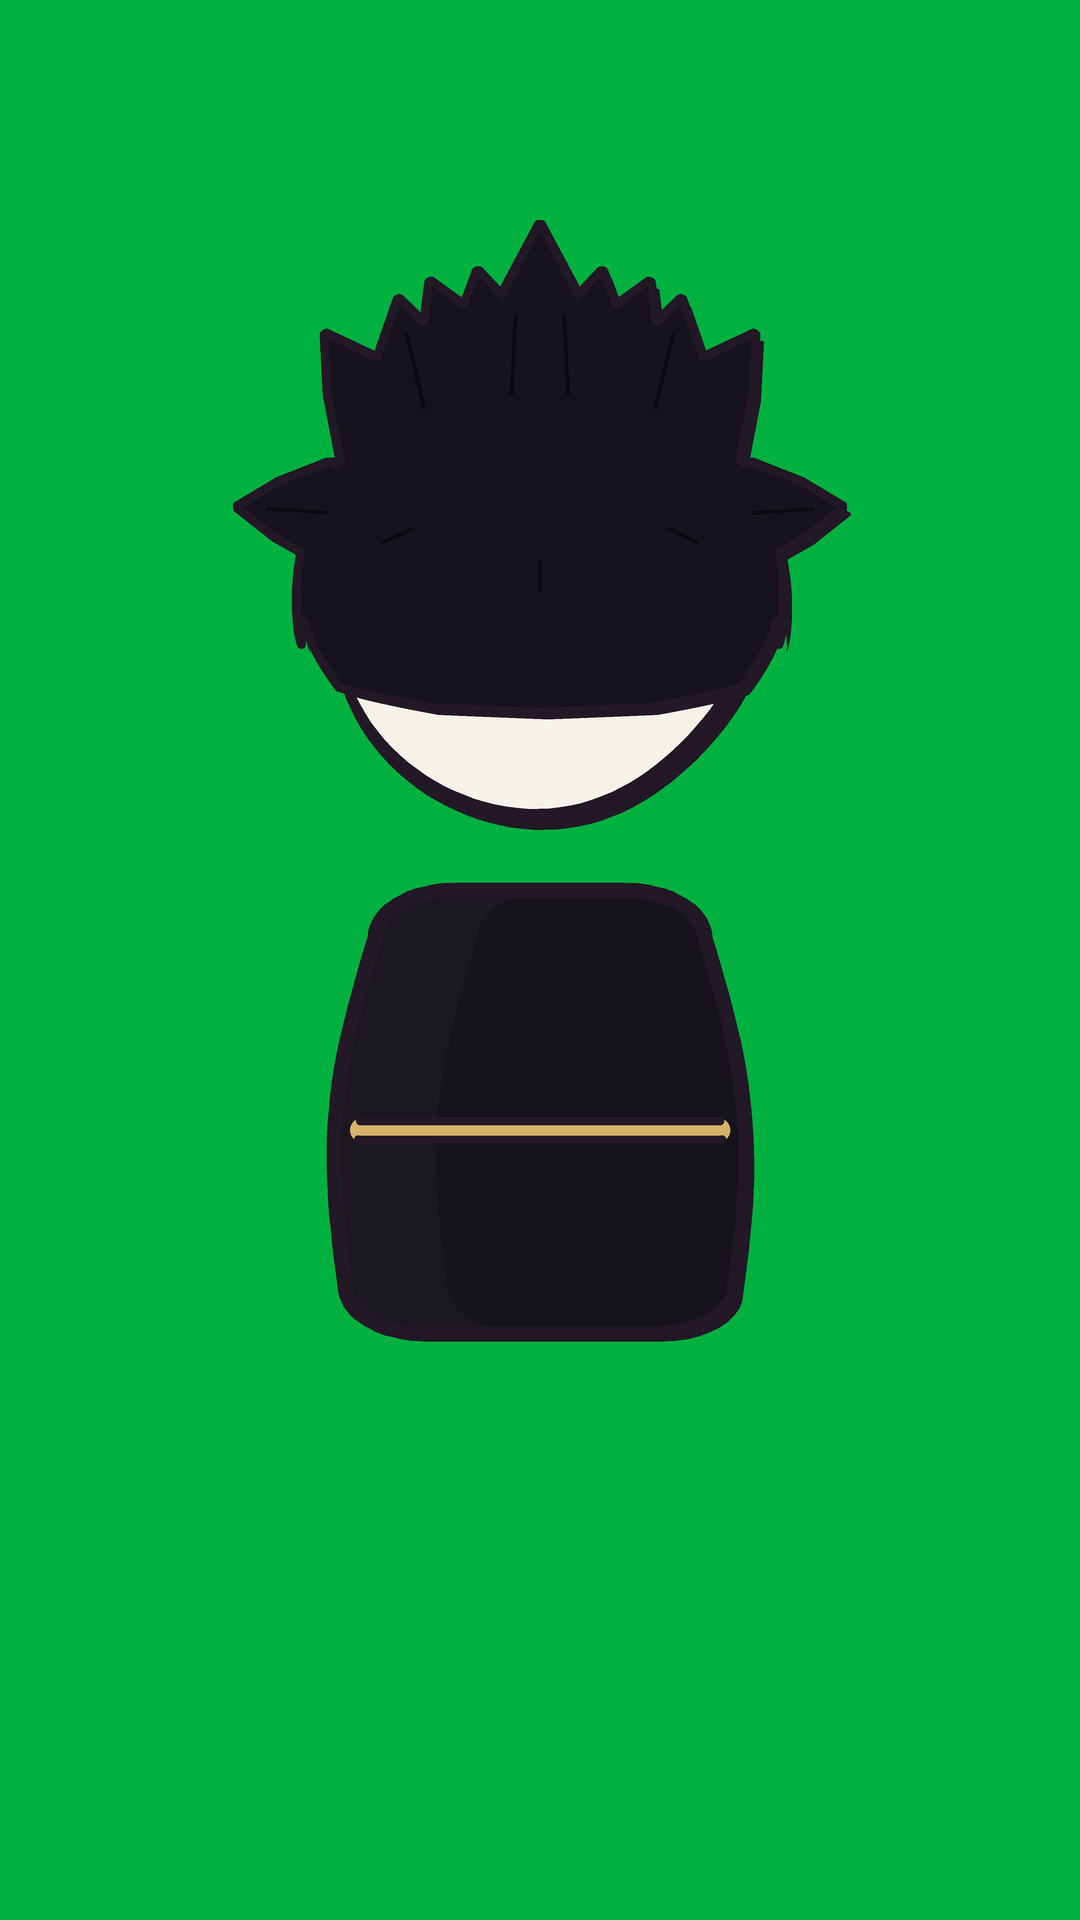
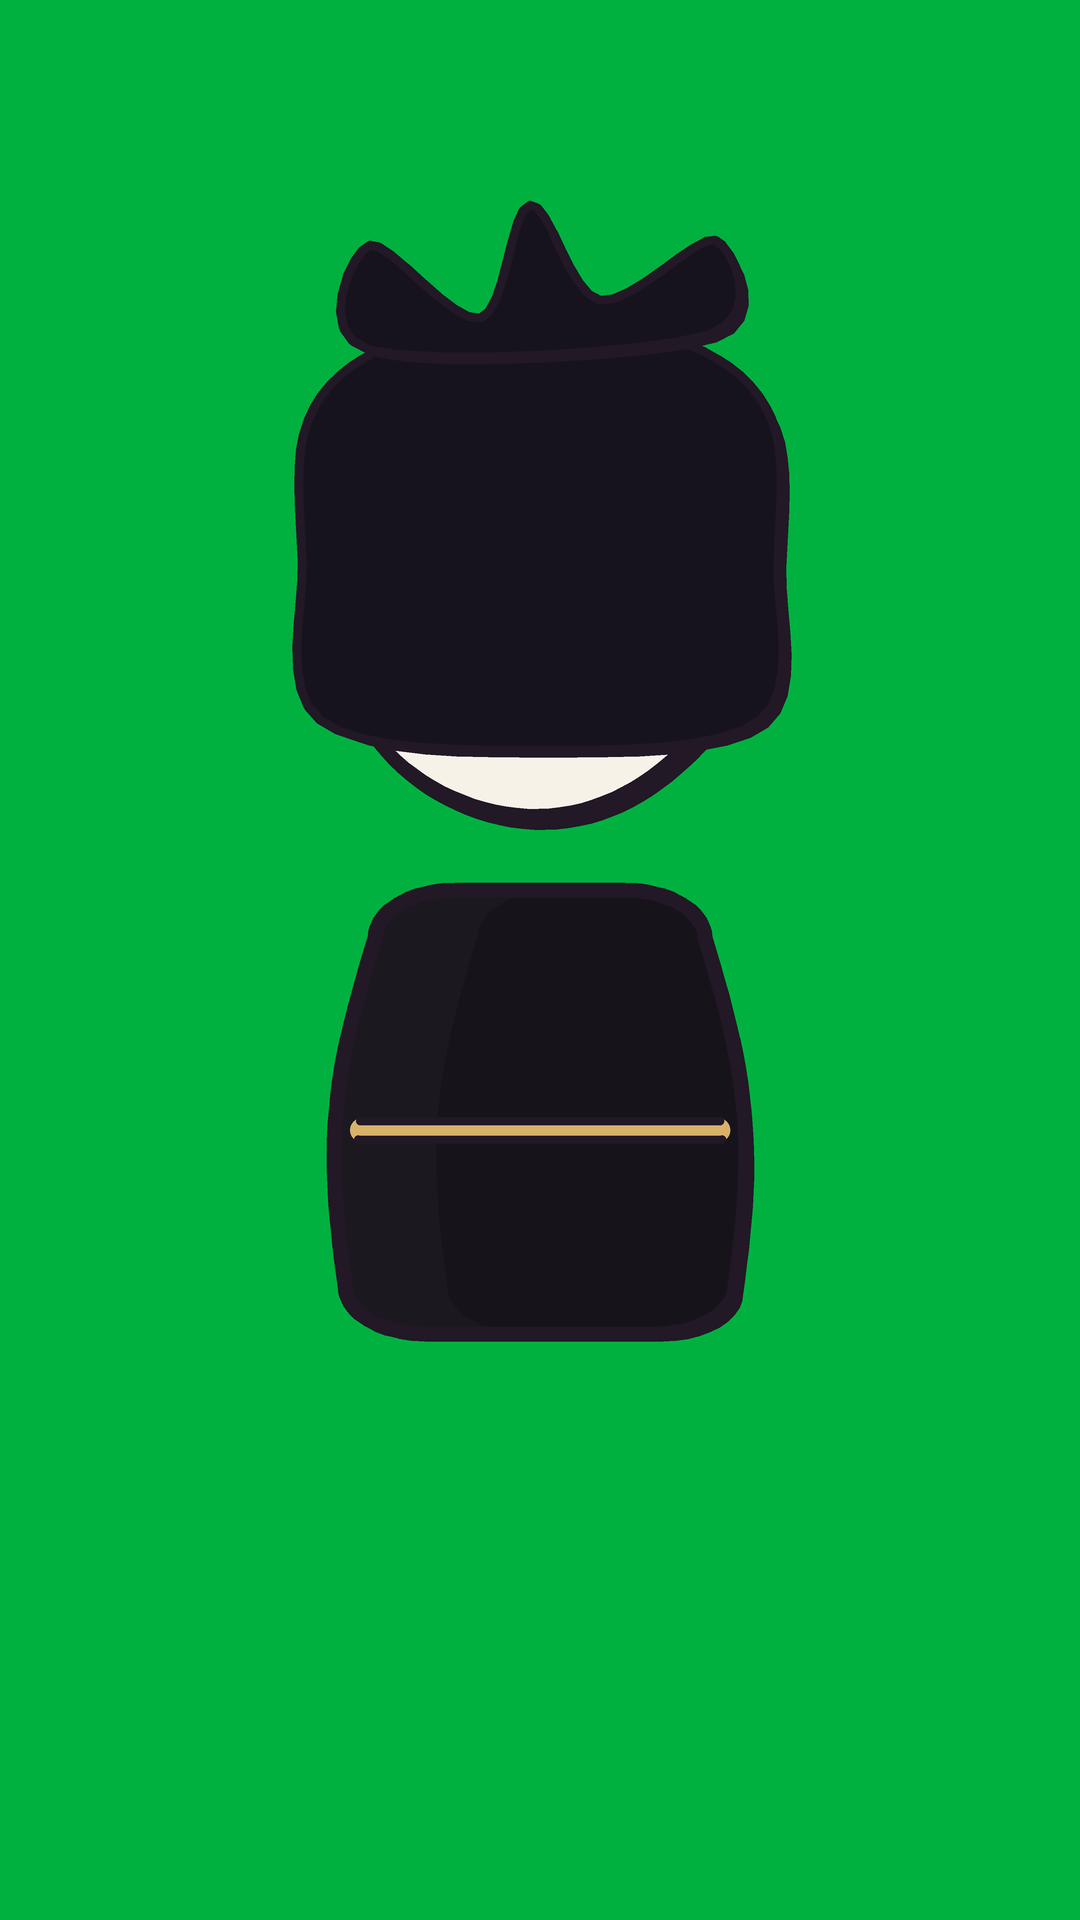
chars: back to the original approved hairstyles (LOCK v1 for C01 C04 C05 C09; C10 as drawn before the turn work); hair3d/styles3d kept but unused (user: hair is not like before)

Changed region(s): [[0.275, 0.125, 0.7944, 0.4062], [0.275, 0.0938, 0.5194, 0.25], [0.2139, 0.25, 0.275, 0.3125]]

diff --git a/projects/the-puppet-master/tools/hair_library.py b/projects/the-puppet-master/tools/hair_library.py
@@ -29,85 +29,6 @@ def hl(d,pts,col):  # soft hair highlight streak
 def strands(d,curves,col,w=5):  # flowing strand lines (refs): darker curved lines along the hair
     for c in curves: line(d,cr(c,6,closed=False),lw=w*K,col=shade(col,.62))
 def back_cap(d,col,lo=760): poly(d,cr([(CX-238,560),(CX-232,420),(CX-150,345),(CX,320),(CX+150,345),(CX+232,420),(CX+238,560),(CX+220,lo),(CX,lo+30),(CX-220,lo)]),col)
-# ---- v8 (user rule 2026-11-23): hair turns WITH the head. The F drawing is mapped onto the skull as a sphere (centre CX,600, radius 250)
-# and rotated by the view's yaw (Q 38 deg, S 78 deg; the face looks to screen-left in Q/S, so the back of the head is +x). What turns off
-# the far edge stays on the rim; the strip of skull that turns into view at the back is covered by back_mass() in the same colour, so the
-# hair still reads as one piece that grows from the whole head.
-HEAD_R = 218;   # the drawn head ball (blob R 205, 3 % wider, + ink)
-YAW = {'F': 0, 'Q': 38, 'S': 78, 'B': 0}
-def _hr(y): return math.sqrt(max(HEAD_R ** 2 - (y - 600) ** 2, 70 ** 2))
-def vt(pts, view):
-    phi = math.radians(YAW.get(view, 0))
-    if not phi: return list(pts)
-    out = []
-    for x, y in pts:
-        r = _hr(y); u = (x - CX) / r; over = 0.0
-        if abs(u) > 1: over = (abs(u) - 1) * r * math.copysign(1, u); u = math.copysign(1, u)
-        th = max(-math.pi / 2, math.asin(u) - phi)
-        out.append((CX + r * math.sin(th) + over * (math.cos(phi) if over > 0 else 1), y))
-    return out
-def _ink_mask(d, a, x0, y0, col, lw=LW):
-    """paint boolean mask `a` (pixel box at x0,y0) as one piece: weighted ink (offset shadow + edge line, like poly()) + fill"""
-    import numpy as np
-    from scipy import ndimage
-    from PIL import Image as _I
-    im = d._image; ox, oy = int(lw * .55), int(lw * .5)
-    sh = np.zeros_like(a); sh[oy:, ox:] = a[:-oy, :-ox]
-    half = lw * .6 / 2; din = ndimage.distance_transform_edt(a); dout = ndimage.distance_transform_edt(~a)
-    ink = (sh & ~a) | ((din > 0) & (din <= half)) | ((dout > 0) & (dout <= half)); fill = a & ~ink
-    box = im.crop((x0, y0, x0 + a.shape[1], y0 + a.shape[0]))
-    box.paste(_I.new('RGB', box.size, INK), (0, 0), _I.fromarray((ink * 255).astype('uint8')))
-    box.paste(_I.new('RGB', box.size, col), (0, 0), _I.fromarray((fill * 255).astype('uint8')))
-    im.paste(box, (x0, y0))
-def union_fill(d, shapes, col, lw=LW):
-    """several polygons (head-design coords) filled as ONE piece with ONE ink outline (no seams where they overlap)"""
-    import numpy as np
-    from PIL import Image as _I, ImageDraw as _D
-    pts = [P(s_) for s_ in shapes]; xs = [x for p_ in pts for x, _ in p_]; ys = [y for p_ in pts for _, y in p_]
-    pad = int(lw * 2); x0, y0 = max(0, int(min(xs)) - pad), max(0, int(min(ys)) - pad); x1, y1 = min(W, int(max(xs)) + pad), min(H, int(max(ys)) + pad)
-    m = _I.new('L', (x1 - x0, y1 - y0), 0); md = _D.Draw(m)
-    for p_ in pts: md.polygon([(x - x0, y - y0) for x, y in p_], fill=255)
-    _ink_mask(d, np.asarray(m) > 127, x0, y0, col, lw)
-# Hairline on the skull (user reference 2026-11-23: front / side / back hairline chart): design-y of the hair edge at an angle around the
-# head measured from the face (0 = forehead, 90 = ear, 180 = nape). Forehead -> temple corner -> sideburn in front of the ear ->
-# up behind the ear -> nape. front / side / back come from each hairstyle.
-def hairline(front=474, side=620, back=690):
-    return [(0, front), (50, front + 12), (68, side - 50), (84, side), (100, side - 34), (118, back - 22), (150, back - 4), (180, back)]
-def hair_shape(d, F, col, view, hl=None, puff=18):
-    """one hairstyle for any view, as ONE connected piece that turns with the head:
-       F view = the drawn front outline F (unchanged); Q / S / B = the scalp region above the hairline on a 3D head (sphere r 250 at
-       CX,600) seen from that view, with `puff` of hair thickness at the silhouette, + the style's own shapes from F turned on the skull
-       (spikes, curls, the fringe in front)."""
-    if view == 'F': poly(d, F, col); return
-    import numpy as np
-    from PIL import Image as _I, ImageDraw as _D
-    HL = hairline(*(hl or (474, 620, 690))); angs = [a_ for a_, _ in HL]; ysl = [y_ for _, y_ in HL]
-    yaw = math.radians({'Q': 38, 'S': 78, 'B': 180}[view])
-    R, t = HEAD_R, puff
-    x0, y0 = int((CX - R - t - 120) * K), int((600 - R - t - 260) * K); x1, y1 = int((CX + R + t + 120) * K), int((600 + R + t) * K)
-    gx, gy = np.meshgrid(np.arange(x0, x1) / K - CX, np.arange(y0, y1) / K - 600)
-    rr = np.hypot(gx, gy); onb = rr <= R; shell = (rr > R) & (rr <= R + t)
-    z = np.sqrt(np.clip(R * R - gx * gx - gy * gy, 0, None)); sx = np.where(onb, gx, gx * R / np.maximum(rr, 1e-6)); sz = np.where(onb, z, 0)
-    # face direction on screen after the turn: (-sin yaw, cos yaw) in (x, z); azimuth of each surface point from the face
-    fx, fz = -math.sin(yaw), math.cos(yaw)
-    az = np.degrees(np.abs(np.arctan2(sx * fz - sz * fx, sx * fx + sz * fz)))
-    edge = np.interp(az, angs, ysl) - 600
-    sy = np.where(onb, gy, gy * R / np.maximum(rr, 1e-6))
-    cap = (onb | shell) & (sy < edge)
-    # the style's own outline from F, turned (mirrored for B: the back shows the spikes, not the fringe)
-    Fv = [(2 * CX - x, y) for x, y in F] if view == 'B' else vt(F, view)
-    m = _I.new('L', (x1 - x0, y1 - y0), 0); _D.Draw(m).polygon([(x * K - x0, y * K - y0) for x, y in Fv], fill=255)
-    style = np.asarray(m) > 127
-    if view == 'B': style &= ~onb                                              # from behind only what sticks out of the skull
-    _ink_mask(d, cap | style, x0, y0, col)
-def back_mass(d, col, view, lo=640, top=330, puff=18):
-    """the back of the hair that turns into view in Q / S: from the rotated right edge of the front drawing out to the skull rim (+puff)"""
-    phi = math.radians(YAW.get(view, 0))
-    if not phi: return
-    ys = [top + (lo - top) * i / 24 for i in range(25)]
-    inner = [(CX + _hr(y) * math.sin(math.pi / 2 - phi) * .96, y) for y in ys]
-    outer = [(CX + (_hr(y) + puff) * (1 - .1 * ((y - top) / (lo - top)) ** 2), y) for y in reversed(ys)]
-    poly(d, cr(inner + outer, 4), col)
 # ---- Kael: dark swept villain hair, sharp layered bangs over one eye ----
 KAEL=[(CX-236,610),(CX-246,500),(CX-300,430),(CX-210,410),(CX-250,330),(CX-150,345),(CX-150,250),(CX-50,315),(CX+10,215),(CX+70,310),(CX+170,250),(CX+165,340),(CX+270,330),(CX+215,410),(CX+262,470),(CX+232,520),
       (CX+238,600),(CX+190,520),(CX+150,560),(CX+120,480),(CX+40,545),(CX+10,470),(CX-60,600),(CX-90,500),(CX-170,640),(CX-180,520)]
@@ -117,9 +38,9 @@ AREN=[(CX-238,620),(CX-252,500),(CX-310,440),(CX-222,415),(CX-262,330),(CX-160,3
       (CX+246,640),(CX+196,560),(CX+170,620),(CX+120,500),(CX+70,600),(CX+30,480),(CX-40,560),(CX-80,470),(CX-150,580),(CX-175,500),(CX-200,600)]
 def hair_aren(d,view='F'):
     c=hexc('#16131d')
-    hair_shape(d,cr(AREN,6),c,view,hl=(470,640,700))
-    if view=='B': return
-    strands(d,[vt(s_,view) for s_ in [[(CX-120,330),(CX-80,430),(CX-90,540)],[(CX+20,250),(CX+40,380),(CX+60,560)],[(CX+150,300),(CX+170,420),(CX+170,560)],[(CX-210,420),(CX-205,520),(CX-205,590)]]],hexc('#2a2a3c'),4)
+    if view=='B': back_cap(d,c,720); poly(d,cr([(CX-170,350),(CX-170,245),(CX-60,318),(CX-10,205),(CX+60,300),(CX+175,240),(CX+168,335)]),c); return
+    poly(d,cr(AREN,6),c)
+    strands(d,[[(CX-120,330),(CX-80,430),(CX-90,540)],[(CX+20,250),(CX+40,380),(CX+60,560)],[(CX+150,300),(CX+170,420),(CX+170,560)],[(CX-210,420),(CX-205,520),(CX-205,590)]],hexc('#2a2a3c'),4)
 # ---- Guard (C02): navy peaked cap, black visor, gold badge ----
 def cap_guard(d,view='F'):
     navy=hexc('#1f2c4a'); gold=hexc('#e2b23c'); blk=hexc('#121018'); band=hexc('#111827')
@@ -132,29 +53,31 @@ def cap_guard(d,view='F'):
 FIRE=[(CX-236,600),(CX-250,470),(CX-300,330),(CX-200,380),(CX-210,200),(CX-110,320),(CX-60,120),(CX+10,300),(CX+90,110),(CX+120,310),(CX+230,190),(CX+200,370),(CX+300,320),(CX+250,470),(CX+236,600),(CX+190,500),(CX+110,450),(CX,470),(CX-110,450),(CX-190,500)]
 def hair_fire(d,view='F'):
     c=hexc('#ee7a22')
-    hair_shape(d,cr(FIRE,5),c,view,hl=(480,600,650))
-    for tip in [(CX-210,215),(CX-62,140),(CX+88,130),(CX+226,205)]: poly(d,cr(vt([(tip[0]-28,tip[1]+90),(tip[0],tip[1]),(tip[0]+28,tip[1]+90),(tip[0],tip[1]+60)],view),4),hexc('#ffd04a'),lw=0)
-    if view!='B': strands(d,[vt(s_,view) for s_ in [[(CX-140,330),(CX-120,420)],[(CX+20,330),(CX+10,430)],[(CX+150,340),(CX+140,430)]]],c,4)
-def skull_cap(d,col,hair_y=474,lw=None,view='F'):
+    if view=='B': back_cap(d,c,700)
+    poly(d,cr(FIRE,5),c)
+    for tip in [(CX-210,215),(CX-62,140),(CX+88,130),(CX+226,205)]: poly(d,cr([(tip[0]-28,tip[1]+90),(tip[0],tip[1]),(tip[0]+28,tip[1]+90),(tip[0],tip[1]+60)],4),hexc('#ffd04a'),lw=0)
+    if view!='B': strands(d,[[(CX-140,330),(CX-120,420)],[(CX+20,330),(CX+10,430)],[(CX+150,340),(CX+140,430)]],c,4)
+def skull_cap(d,col,hair_y=474,lw=None):
     """hair that hugs the head: outer edge follows the skull (centre CX,600), hairline across the forehead - one connected piece (fixes the flat floating band / temple gaps)"""
     outer=arc(CX,600,236,232,193,347,36); inner=[(CX+198,548),(CX+140,505),(CX+62,hair_y+6),(CX,hair_y),(CX-62,hair_y+6),(CX-140,505),(CX-198,548)]
-    hair_shape(d,outer+inner,col,view,hl=(hair_y,560,640),puff=4)
+    poly(d,outer+inner,col)
 # ---- Strong man (C04): very short dark buzz cut ----
 def hair_buzz(d,view='F'):
     c=hexc('#3a3236')
-    skull_cap(d,c,470,view=view)
-    if view=='B': return
+    if view=='B': back_cap(d,c,700); return
+    skull_cap(d,c,470)
     import random; r=random.Random(4)
     for _ in range(26):
         x=CX+r.uniform(-170,170); y=r.uniform(400,500)
-        if (x-CX)**2/225**2+(y-600)**2/200**2<1 and y<530-abs(x-CX)*.12: [(x,y)]=vt([(x,y)],view); ell(d,x,y,4,4,shade(c,1.5),lw=0)
+        if (x-CX)**2/225**2+(y-600)**2/200**2<1 and y<530-abs(x-CX)*.12: ell(d,x,y,4,4,shade(c,1.5),lw=0)
 # ---- Thug leader (C05): magenta mohawk fin, shaved sides ----
 def hair_mohawk(d,view='F'):
     c=hexc('#c2348a'); g=hexc('#4a3a40')
-    skull_cap(d,g,476,view=view)
+    if view=='B': back_cap(d,g,700)
+    skull_cap(d,g,476)
     fin=[(CX-66,520),(CX-84,380),(CX-124,258),(CX-44,282),(CX-32,168),(CX+20,262),(CX+62,156),(CX+72,268),(CX+142,236),(CX+86,370),(CX+68,520),(CX+10,500),(CX-30,510)]
-    fin=vt(fin,view)
-    poly(d,cr(fin,5),c); hl(d,vt([(CX-30,300),(CX+10,262),(CX+20,282),(CX-20,322)],view),c)
+    if view=='S': fin=[(x-40,y) for x,y in fin]
+    poly(d,cr(fin,5),c); hl(d,[(CX-30,300),(CX+10,262),(CX+20,282),(CX-20,322)],c)
 # ---- Thug 2 (C06): knit beanie with a folded band ----
 def hat_beanie(d,view='F'):
     c=hexc('#5c6b4e')
@@ -183,10 +106,12 @@ NOAH=[(CX-236,600),(CX-254,490),(CX-228,395),(CX-150,345),(CX-70,320),(CX-26,236
       (CX+198,545),(CX+152,490),(CX+60,466),(CX-34,478),(CX-104,532),(CX-148,610),(CX-182,540),(CX-204,590)]
 def hair_noah(d,view='F'):
     c=hexc('#cdd0da')
-    hair_shape(d,cr(NOAH,6),c,view,hl=(470,620,700))
-    if view=='B': return
-    hl(d,vt([(CX+10,340),(CX+110,352),(CX+160,390),(CX+70,376)],view),hexc('#f4f6fb'))
-    strands(d,[vt(s_,view) for s_ in [[(CX-80,350),(CX-86,440),(CX-96,540)],[(CX+30,330),(CX+40,420),(CX+50,490)],[(CX+150,350),(CX+170,430),(CX+176,500)],[(CX-200,440),(CX-210,520),(CX-206,570)]]],hexc('#8f93a6'),4)
+    if view=='B':
+        back_cap(d,c,720); poly(d,cr([(CX-170,350),(CX-166,250),(CX-60,320),(CX-12,232),(CX+60,312),(CX+176,262),(CX+170,350)],4),c)
+        poly(d,cr([(CX-40,690),(CX-26,740),(CX+8,785),(CX+40,740),(CX+56,690)],5),c); return
+    poly(d,cr(NOAH,6),c)
+    hl(d,[(CX+10,340),(CX+110,352),(CX+160,390),(CX+70,376)],hexc('#f4f6fb'))
+    strands(d,[[(CX-80,350),(CX-86,440),(CX-96,540)],[(CX+30,330),(CX+40,420),(CX+50,490)],[(CX+150,350),(CX+170,430),(CX+176,500)],[(CX-200,440),(CX-210,520),(CX-206,570)]],hexc('#8f93a6'),4)
 
 # ---- Prisoner p1 (C10, ep4): brown curly mop, ONE connected bumpy outline that sits on the skull (the gossip scene needs a silhouette
 #      that differs from the beanie thug: round curly cloud vs a flat cuffed dome) ----
@@ -198,16 +123,17 @@ def _curls(cx, cy, rx, ry, a0, a1, n, amp):
     return pts
 def hair_curly(d, view='F'):
     c = hexc('#6b4630')
+    if view == 'B':
+        poly(d, cr(_curls(CX, 520, 262, 250, 0, 360, 22, .07)[:-1], 5), c); return
     # user rule 2026-11-23: hair flows down the sides and JOINS the head (curly sideburns to the ear line), never a cap sitting on top
     left = [(CX - 232, 628), (CX - 262, 566), (CX - 248, 512), (CX - 276, 452)]
     top = _curls(CX, 470, 268, 215, 196, 344, 14, .08)                     # bumpy crown from the left temple over to the right temple
     right = [(CX + 276, 452), (CX + 248, 512), (CX + 264, 566), (CX + 234, 628)]
     fringe = [(CX + 206, 592), (CX + 196, 520), (CX + 150, 470), (CX + 96, 500), (CX + 40, 456), (CX - 20, 496), (CX - 80, 458), (CX - 140, 502), (CX - 194, 522), (CX - 206, 592)]
-    hair_shape(d, cr(left + top + right + fringe, 5), c, view, hl=(470, 640, 705), puff=28)
-    if view == 'B': return
-    hl(d, vt([(CX - 120, 345), (CX - 40, 318), (CX + 30, 330), (CX - 50, 352)], view), c)
+    poly(d, cr(left + top + right + fringe, 5), c)
+    hl(d, [(CX - 120, 345), (CX - 40, 318), (CX + 30, 330), (CX - 50, 352)], c)
     for x, y in [(CX - 150, 390), (CX - 60, 360), (CX + 40, 372), (CX + 130, 396), (CX - 100, 430), (CX + 90, 436)]:
-        line(d, vt(arc(x, y, 26, 20, 200, 340, 8), view), lw=4 * K, col=shade(c, .62))
+        line(d, arc(x, y, 26, 20, 200, 340, 8), lw=4 * K, col=shade(c, .62))
 
 # ---------- registry (v8 M3): what charsheet.py shows as the Hair Library. silhouette = the outline family (characters in one scene
 # must differ by SILHOUETTE, not only colour - SKILL.md "HAIR LIBRARY" rule); back = how the B view is drawn.

diff --git a/projects/the-puppet-master/tools/mk_pm.py b/projects/the-puppet-master/tools/mk_pm.py
@@ -6,8 +6,6 @@ import sys
 from pm_draw import *
 from outfits import *
 from hair_library import *
-import hair3d
-from styles3d import STYLES as STYLES3D
 out=sys.argv[1]
 CH={'C01':(hair_aren,villager,(hexc('#1b1820'),)),'C02':(cap_guard,villager,(hexc('#2c3a5c'),)),
     'C03':(hair_fire,villager,(hexc('#c8bfa8'),)),'C04':(hair_buzz,villager,(hexc('#6a5a4a'),)),
@@ -21,9 +19,6 @@ for cid,spec in CH.items():
         im=Image.new('RGB',(W,H),GREEN); d=ImageDraw.Draw(im)
         cos(im,d,v,*args); d=ImageDraw.Draw(im)
         if back and v!='B': back(d,v)
-        SEED[0]=int(cid[1:])*7+3; ball(d,flip=(v=='B'))
-        if cid in STYLES3D:
-            for h in STYLES3D[cid](): hair3d.render(d,h,v)   # v8 (2026-11-24): one 3D hair model, projected per view
-        else: hat(d,v)
+        SEED[0]=int(cid[1:])*7+3; ball(d,flip=(v=='B')); hat(d,v)
         im.resize((1080,1920),Image.LANCZOS).save(f'{out}/{cid}-{v}.png')
 print('ok')
